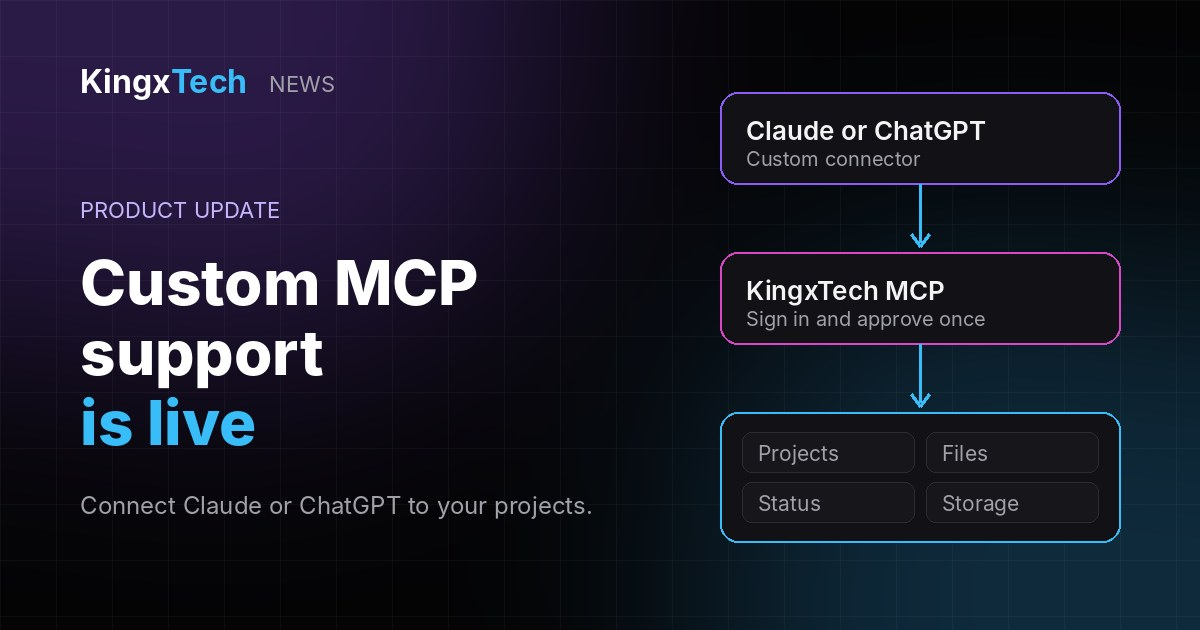
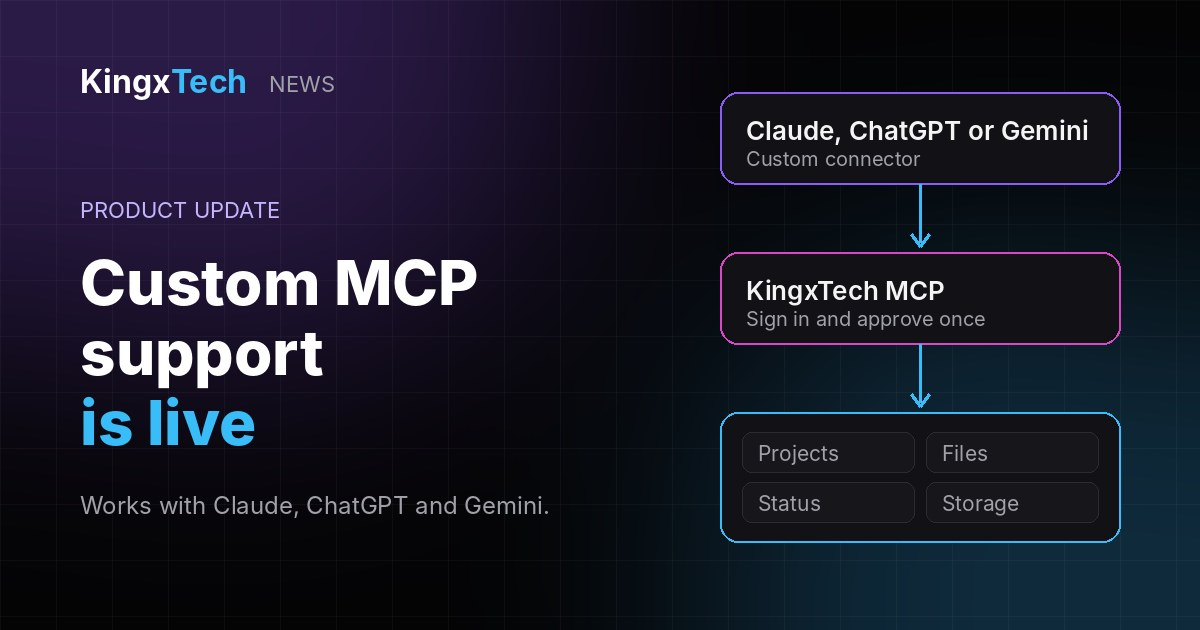
News: add Gemini and free ChatGPT account to custom MCP article
Claude-Session: https://claude.ai/code/session_013vH754ZcwfZkoFobNNvn7P

Changed region(s): [[0.0617, 0.7841, 0.4933, 0.8143], [0.7092, 0.181, 0.925, 0.2413]]

diff --git a/news/custom-mcp-support/index.html b/news/custom-mcp-support/index.html
@@ -1,20 +1,20 @@
 <!DOCTYPE html>
 <html lang="en"><head>
 <meta charset="UTF-8"><meta name="viewport" content="width=device-width, initial-scale=1.0">
-<title>Connect Claude to your KingxTech projects with custom MCP support — KingxTech News</title>
-<meta name="description" content="KingxTech now supports custom MCP: add your KingxTech account to Claude as a custom connector, approve it once, and let it read and edit your project files.">
+<title>Connect Claude, ChatGPT and Gemini to your KingxTech projects — KingxTech News</title>
+<meta name="description" content="KingxTech now supports custom MCP: connect Claude, ChatGPT or Gemini to your KingxTech account, approve it once, and let it read and edit your project files.">
 <link rel="canonical" href="https://kingxtech.name.ng/news/custom-mcp-support/">
 <meta name="theme-color" content="#09090B"><meta name="color-scheme" content="dark">
 <meta property="og:type" content="article"><meta property="og:site_name" content="KingxTech">
-<meta property="og:title" content="Connect Claude to your KingxTech projects with custom MCP support"><meta property="og:description" content="KingxTech now supports custom MCP: add your KingxTech account to Claude as a custom connector, approve it once, and let it read and edit your project files.">
+<meta property="og:title" content="Connect Claude, ChatGPT and Gemini to your KingxTech projects"><meta property="og:description" content="KingxTech now supports custom MCP: connect Claude, ChatGPT or Gemini to your KingxTech account, approve it once, and let it read and edit your project files.">
 <meta property="og:url" content="https://kingxtech.name.ng/news/custom-mcp-support/"><meta property="og:image" content="https://kingxtech.name.ng/img/og-custom-mcp-support.jpg">
-<meta property="og:image:width" content="1200"><meta property="og:image:height" content="630"><meta property="og:image:alt" content="Connect Claude to your KingxTech projects with custom MCP support">
+<meta property="og:image:width" content="1200"><meta property="og:image:height" content="630"><meta property="og:image:alt" content="Connect Claude, ChatGPT and Gemini to your KingxTech projects">
 <meta property="article:published_time" content="2026-11-15"><meta property="article:section" content="Product update">
-<meta name="twitter:card" content="summary_large_image"><meta name="twitter:title" content="Connect Claude to your KingxTech projects with custom MCP support"><meta name="twitter:description" content="KingxTech now supports custom MCP: add your KingxTech account to Claude as a custom connector, approve it once, and let it read and edit your project files."><meta name="twitter:image" content="https://kingxtech.name.ng/img/og-custom-mcp-support.jpg">
+<meta name="twitter:card" content="summary_large_image"><meta name="twitter:title" content="Connect Claude, ChatGPT and Gemini to your KingxTech projects"><meta name="twitter:description" content="KingxTech now supports custom MCP: connect Claude, ChatGPT or Gemini to your KingxTech account, approve it once, and let it read and edit your project files."><meta name="twitter:image" content="https://kingxtech.name.ng/img/og-custom-mcp-support.jpg">
 <link rel="icon" type="image/svg+xml" href="/img/logo.svg">
 <link rel="preconnect" href="https://fonts.googleapis.com"><link rel="preconnect" href="https://fonts.gstatic.com" crossorigin>
 <link rel="stylesheet" href="/assets/site.css">
-<script type="application/ld+json">{"@context":"https://schema.org","@type":"NewsArticle","headline":"Connect Claude to your KingxTech projects with custom MCP support","description":"KingxTech now supports custom MCP: add your KingxTech account to Claude as a custom connector, approve it once, and let it read and edit your project files.","datePublished":"2026-11-15","image":"https://kingxtech.name.ng/img/og-custom-mcp-support.jpg","mainEntityOfPage":"https://kingxtech.name.ng/news/custom-mcp-support/","author":{"@type":"Organization","name":"KingxTech"},"publisher":{"@type":"Organization","name":"KingxTech","logo":{"@type":"ImageObject","url":"https://kingxtech.name.ng/img/logo.svg"}}}</script>
+<script type="application/ld+json">{"@context":"https://schema.org","@type":"NewsArticle","headline":"Connect Claude, ChatGPT and Gemini to your KingxTech projects","description":"KingxTech now supports custom MCP: connect Claude, ChatGPT or Gemini to your KingxTech account, approve it once, and let it read and edit your project files.","datePublished":"2026-11-15","image":"https://kingxtech.name.ng/img/og-custom-mcp-support.jpg","mainEntityOfPage":"https://kingxtech.name.ng/news/custom-mcp-support/","author":{"@type":"Organization","name":"KingxTech"},"publisher":{"@type":"Organization","name":"KingxTech","logo":{"@type":"ImageObject","url":"https://kingxtech.name.ng/img/logo.svg"}}}</script>
 <style>.art{max-width:760px}.art .meta{font:500 12px var(--fm);letter-spacing:.1em;text-transform:uppercase;color:#c4b5fd}.art h1{font-size:clamp(2rem,6vw,3.2rem);margin:16px 0 18px}.art .lede{font-size:19px;color:var(--text)}.art p{color:var(--mist);font-size:16.5px;margin-top:18px;line-height:1.7}.art h2{font-size:22px;margin-top:38px}.art ul{margin:16px 0 0 20px;color:var(--mist);line-height:1.8}.art img.cover{width:100%;height:auto;border-radius:var(--rl);border:1px solid var(--line);margin:28px 0 8px}.art .back{color:#c4b5fd;text-decoration:underline;font-size:14px}</style></head><body>
 <header class="nav" id="nav"><div class="wrap nav-in">
 <a href="/" class="brand"><img src="/img/logo.svg" alt="" width="28" height="28"><span>Kingx<span class="grad">Tech</span></span></a>
@@ -26,9 +26,9 @@
 <article class="sec" style="padding-top:110px"><div class="wrap art">
 <a class="back" href="/news">← Newsroom</a>
 <div class="meta" style="margin-top:22px">Product update · <time datetime="2026-11-15">November 15, 2026</time></div>
-<h1>Connect Claude to your KingxTech projects with custom MCP support</h1>
-<p class="lede">KingxTech now supports custom MCP. You can add your KingxTech account to Claude as a custom connector, approve it once, and let Claude work with the files in your projects.</p>
-<img class="cover" src="/img/og-custom-mcp.jpg" alt="Diagram: Claude or ChatGPT connects through a custom connector to the KingxTech MCP server, which reaches your projects, files, status and storage" width="1200" height="630">
+<h1>Connect Claude, ChatGPT and Gemini to your KingxTech projects</h1>
+<p class="lede">KingxTech now supports custom MCP. You can connect your KingxTech account to Claude, ChatGPT or Gemini as a custom connector, approve it once, and let the app work with the files in your projects.</p>
+<img class="cover" src="/img/og-custom-mcp.jpg" alt="Diagram: Claude, ChatGPT or Gemini connects through a custom connector to the KingxTech MCP server, which reaches your projects, files, status and storage" width="1200" height="630">
 <h2>What it is</h2>
 <p>MCP is a standard way for AI apps to connect to other tools. KingxTech now runs an MCP server, so an AI app that supports custom connectors can sign in to your account and work with your projects directly, without copying and pasting files back and forth.</p>
 <h2>What an approved app can do</h2>
@@ -36,8 +36,9 @@
 <h2>What it cannot do</h2>
 <ul><li>Delete files or projects</li><li>Publish sites or start servers</li><li>See or change environment variables and secrets</li><li>Touch billing, domains or account settings</li></ul>
 <h2>Connect it</h2>
-<p>In Claude, open Settings &gt; Connectors &gt; Add custom connector and paste <code style="color:#c4b5fd">https://site.kingxtech.name.ng/mcp</code>. Sign in to KingxTech when asked and approve the app. You stay in control: open Account &gt; Connected apps in KingxTech at any time to remove an app and end its access.</p>
-<p>The connector works in both Claude and ChatGPT. In ChatGPT, custom connectors are added from the web or desktop app, not the mobile app, and availability depends on your ChatGPT plan. Once connected, you can use it from your phone as well.</p>
+<p>Add this address as a custom connector (also called an MCP server URL): <code style="color:#c4b5fd">https://site.kingxtech.name.ng/mcp</code>. Sign in to KingxTech when asked and approve the app. You stay in control: open Account &gt; Connected apps in KingxTech at any time to remove an app and end its access.</p>
+<ul><li><strong style="color:var(--text)">Claude:</strong> Settings &gt; Connectors &gt; Add custom connector.</li><li><strong style="color:var(--text)">ChatGPT:</strong> add it as a custom app or connector from the web or desktop app, not the mobile app. We connected it on a free ChatGPT account. Availability can depend on your plan and may change.</li><li><strong style="color:var(--text)">Gemini:</strong> add it from Connectors. We have connected it there too.</li></ul>
+<p>Once connected, you can use the connector from the mobile apps as well.</p>
 <h2>Feedback</h2>
 <p>Tell us how it works for you through our <a href="/contact" style="color:#c4b5fd;text-decoration:underline">contact page</a> or on <a href="https://discord.gg/GKkk8a79fz" rel="noopener" style="color:#c4b5fd;text-decoration:underline">Discord</a>. Setup steps are in the <a href="https://auth.kingxtech.name.ng/docs" style="color:#c4b5fd;text-decoration:underline">KingxTech docs</a>.</p>
 </div></article>

diff --git a/news.html b/news.html
@@ -28,7 +28,7 @@
 </div><div class="mnav" id="mnav"><a href="/#products">Products</a><a href="/services">Services</a><a href="/projects">Projects</a><a href="/about">About</a><a href="/blog">Blog</a><a href="/news">News</a><a href="https://auth.kingxtech.name.ng/docs">Docs</a><a href="/contact">Contact</a><a href="https://auth.kingxtech.name.ng/login">Sign in</a><a href="https://auth.kingxtech.name.ng/signup" class="btn btn-p">Get started</a></div></header>
 <main>
 <section class="ph-hero"><div class="wrap news-intro"><span class="kicker">KingxTech Newsroom</span><h1 style="font-size:clamp(2.5rem,7vw,4.2rem);margin-top:18px">The official word.<br><span class="grad">What's happening at KingxTech.</span></h1><p>Product launches, partnerships, company milestones, events and important updates—published directly by KingxTech.</p><div class="news-cats" aria-label="News categories"><span>Announcements</span><span>Product launches</span><span>Partnerships</span><span>Milestones</span><span>Events</span></div></div></section>
-<section class="sec" style="padding-top:12px"><div class="wrap"><div class="grid g2"><a class="card rv" href="/news/custom-mcp-support/" style="display:block;text-decoration:none;color:inherit;overflow:hidden;padding:0"><img src="/img/og-custom-mcp.jpg" alt="" width="1200" height="630" loading="lazy" style="width:100%;height:auto;display:block;border-bottom:1px solid var(--line)"><div style="padding:22px 24px 26px"><span class="news-label">Product update · Nov 15, 2026</span><h3 style="margin-top:12px">Connect Claude to your KingxTech projects with custom MCP support</h3><p>Add KingxTech to Claude as a custom connector and let it read and edit your project files, with your approval.</p></div></a><a class="card rv" href="/news/kitoko-hub-partnership/" style="display:block;text-decoration:none;color:inherit;overflow:hidden;padding:0"><img src="/img/og-kitoko-hub.jpg" alt="" width="1200" height="630" loading="lazy" style="width:100%;height:auto;display:block;border-bottom:1px solid var(--line)"><div style="padding:22px 24px 26px"><span class="news-label">Partnership · Nov 8, 2026</span><h3 style="margin-top:12px">KingxTech partners with Kitoko Hub to improve tech learning in Nigeria</h3><p>A hands-on AI &amp; Tech Creators Workshop starts February 2027, with only 50 seats. Applications are open.</p></div></a><a class="card rv" href="/news/offline-ai/" style="display:block;text-decoration:none;color:inherit;overflow:hidden;padding:0"><img src="/img/og-offline-ai-v2.jpg" alt="" width="1200" height="630" loading="lazy" style="width:100%;height:auto;display:block;border-bottom:1px solid var(--line)"><div style="padding:22px 24px 26px"><span class="news-label">Product preview · Nov 7, 2026</span><h3 style="margin-top:12px">NeuroCore: private AI that works offline</h3><p>See NeuroCore running on-device, private and working offline. Now available to download.</p></div></a><a class="card rv" href="/news/backend-support/" style="display:block;text-decoration:none;color:inherit;overflow:hidden;padding:0"><img src="/img/og-backend-support.jpg" alt="" width="1200" height="630" loading="lazy" style="width:100%;height:auto;display:block;border-bottom:1px solid var(--line)"><div style="padding:22px 24px 26px"><span class="news-label">Platform update · Nov 7, 2026</span><h3 style="margin-top:12px">Build your backend at KingxTech</h3><p>Backend support is here: build the server side of your app where you already build the frontend.</p></div></a></div></div></section>
+<section class="sec" style="padding-top:12px"><div class="wrap"><div class="grid g2"><a class="card rv" href="/news/custom-mcp-support/" style="display:block;text-decoration:none;color:inherit;overflow:hidden;padding:0"><img src="/img/og-custom-mcp.jpg" alt="" width="1200" height="630" loading="lazy" style="width:100%;height:auto;display:block;border-bottom:1px solid var(--line)"><div style="padding:22px 24px 26px"><span class="news-label">Product update · Nov 15, 2026</span><h3 style="margin-top:12px">Connect Claude, ChatGPT and Gemini to your KingxTech projects</h3><p>Custom MCP support is here: connect your account to an AI app and let it read and edit your project files, with your approval.</p></div></a><a class="card rv" href="/news/kitoko-hub-partnership/" style="display:block;text-decoration:none;color:inherit;overflow:hidden;padding:0"><img src="/img/og-kitoko-hub.jpg" alt="" width="1200" height="630" loading="lazy" style="width:100%;height:auto;display:block;border-bottom:1px solid var(--line)"><div style="padding:22px 24px 26px"><span class="news-label">Partnership · Nov 8, 2026</span><h3 style="margin-top:12px">KingxTech partners with Kitoko Hub to improve tech learning in Nigeria</h3><p>A hands-on AI &amp; Tech Creators Workshop starts February 2027, with only 50 seats. Applications are open.</p></div></a><a class="card rv" href="/news/offline-ai/" style="display:block;text-decoration:none;color:inherit;overflow:hidden;padding:0"><img src="/img/og-offline-ai-v2.jpg" alt="" width="1200" height="630" loading="lazy" style="width:100%;height:auto;display:block;border-bottom:1px solid var(--line)"><div style="padding:22px 24px 26px"><span class="news-label">Product preview · Nov 7, 2026</span><h3 style="margin-top:12px">NeuroCore: private AI that works offline</h3><p>See NeuroCore running on-device, private and working offline. Now available to download.</p></div></a><a class="card rv" href="/news/backend-support/" style="display:block;text-decoration:none;color:inherit;overflow:hidden;padding:0"><img src="/img/og-backend-support.jpg" alt="" width="1200" height="630" loading="lazy" style="width:100%;height:auto;display:block;border-bottom:1px solid var(--line)"><div style="padding:22px 24px 26px"><span class="news-label">Platform update · Nov 7, 2026</span><h3 style="margin-top:12px">Build your backend at KingxTech</h3><p>Backend support is here: build the server side of your app where you already build the frontend.</p></div></a></div></div></section>
 <section class="sec" style="padding-top:0"><div class="wrap"><div class="cta-box rv"><h2>Stay connected</h2><p>Follow KingxTech for updates and announcements as they happen.</p><div class="actions"><a class="btn btn-glow" href="https://x.com/kingxtechhq" target="_blank" rel="noopener">Follow on X ↗</a><a class="btn btn-g" href="/contact">Contact KingxTech</a></div></div></div></section>
 </main>
 <footer><div class="wrap"><div class="fg">
